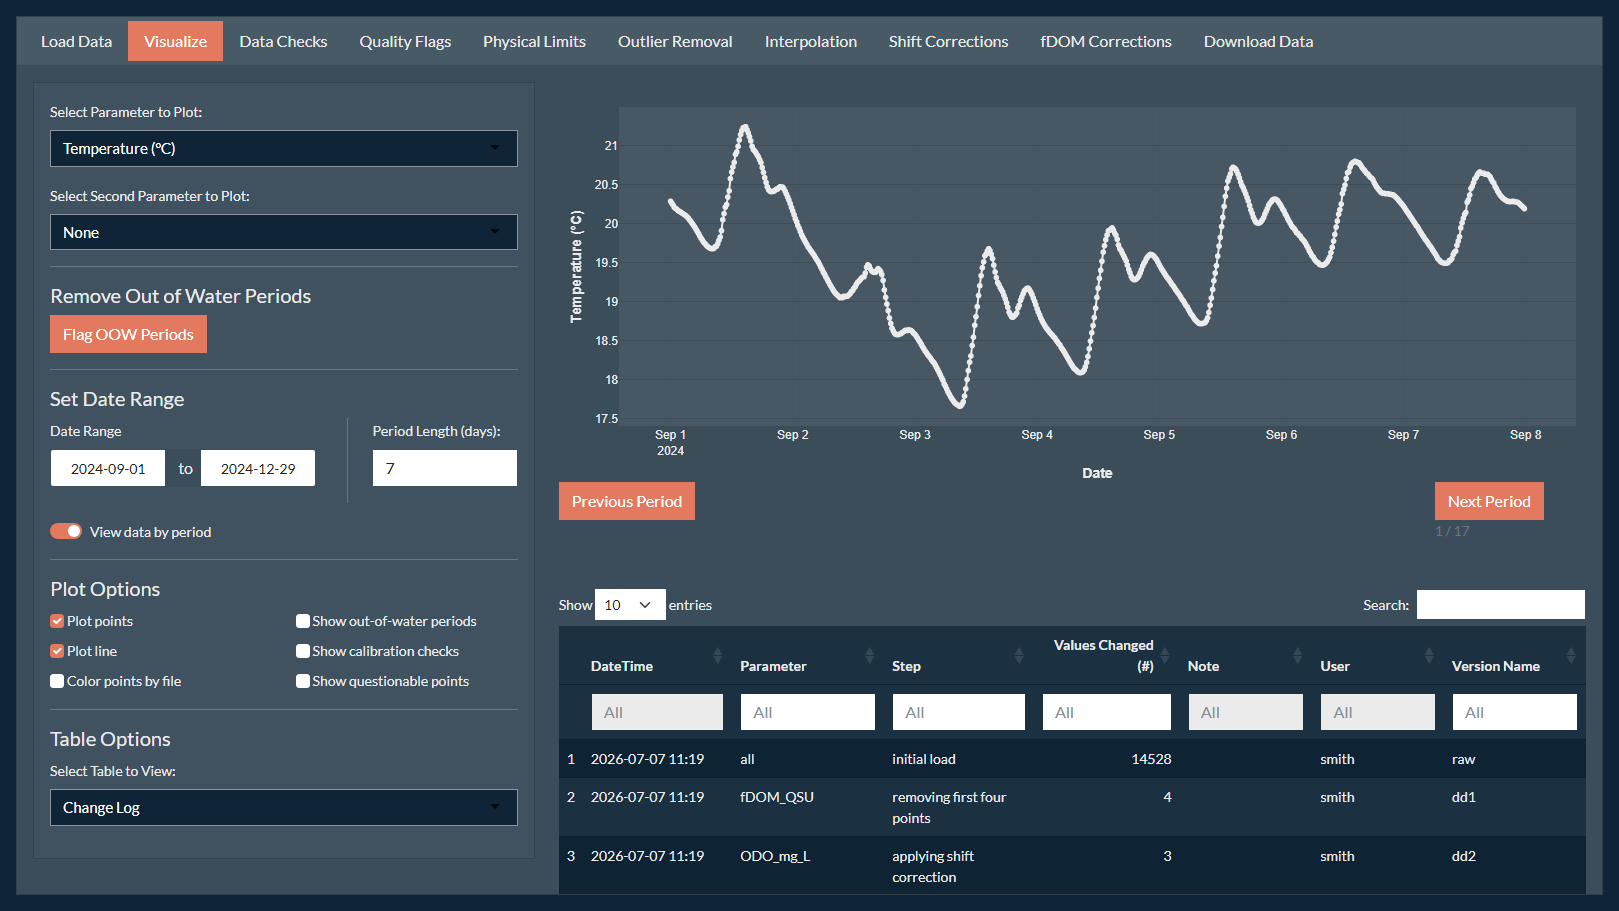
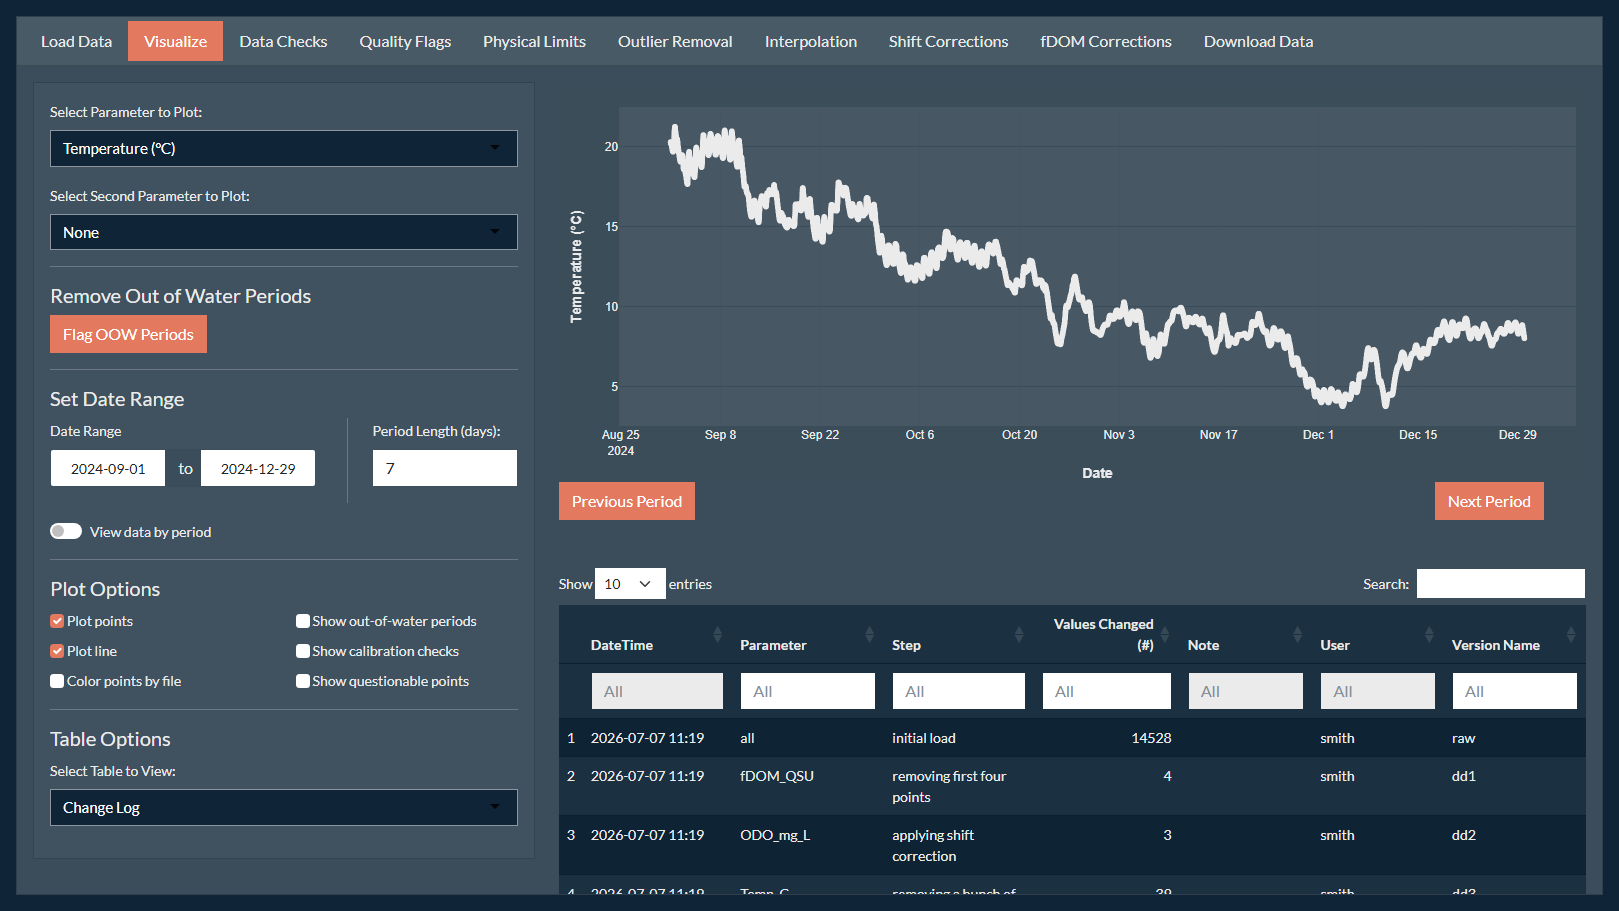
getting tests to pass.

diff --git a/tests/testthat/_snaps/step2-explore-plot.md b/tests/testthat/_snaps/step2-explore-plot.md
@@ -2153,7 +2153,7 @@
                   "value": ["Etc/GMT+8"]
                 }
               },
-              "value": [1725177600, 1725328575, 1725479550, 1725479550, 1725630525, 1725781500]
+              "value": [1725177600, 1727766000, 1730356200, 1730355487.04042006, 1732944600, 1735540200]
             }
           ]
         },
@@ -2175,7 +2175,7 @@
                   "value": ["summaryDefault", "table"]
                 }
               },
-              "value": [17.659, 19.06875, 19.6345, 19.59580952, 20.2505, 21.241]
+              "value": [3.783, 8.067, 9.56, 11.11038948, 14.167, 21.241]
             }
           ]
         }